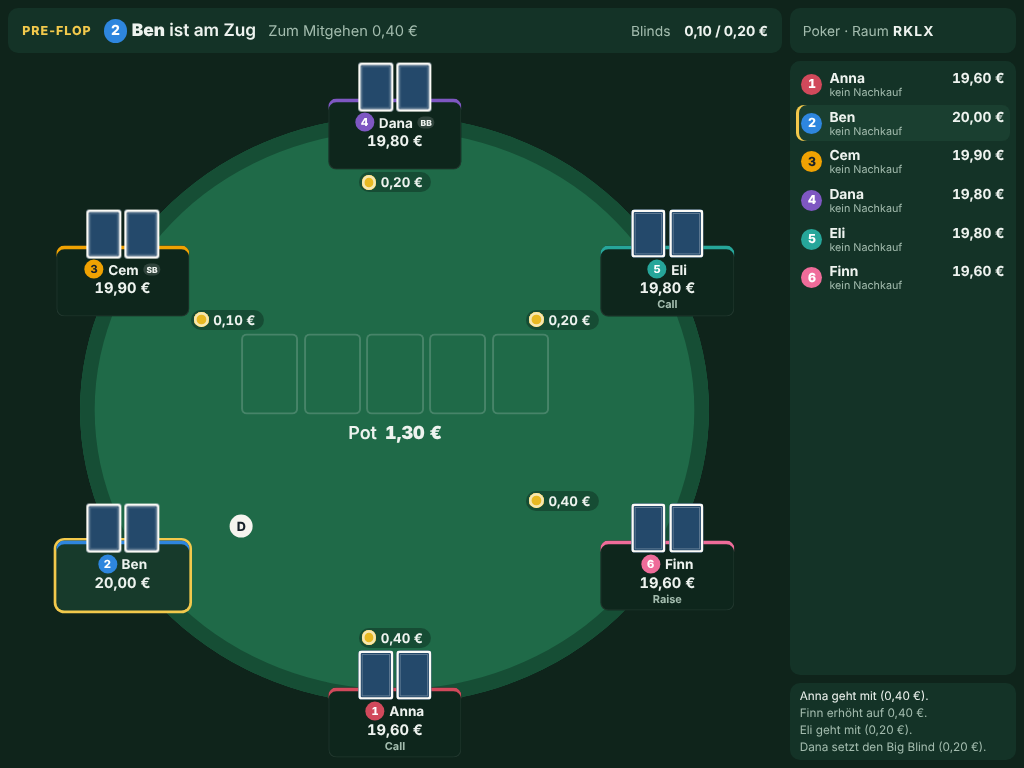
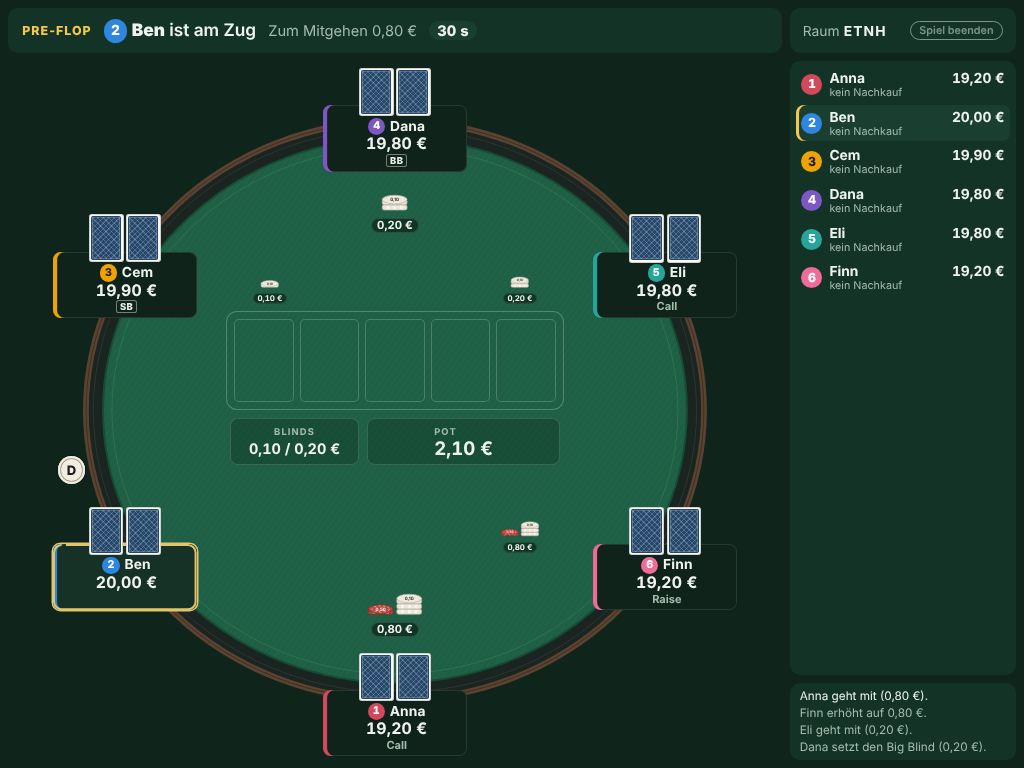
Bildschirmfotos und Doku: Poker-Grafik, Sperrzonen, Spiel beenden
docs/screenshots/: alte poker-*.png ersetzt. Fernseher in 1920x1080 und
1024x768: Pre-Flop, Flop mit Dealer-Button an der Stelle, die der Mitte am
nächsten kommt, Showdown mit markierter Hand, 12 Spieler, Poker-Endstand
nach 40 Runden mit Nachkäufen, Bestätigungsdialog „Spiel beenden“. Handy
in 390x844: Karten verdeckt und aufgedeckt, Aktionsleiste, Endstand.
Lobby mit Poker gewählt. Seitenkopf bei 4:3 ohne „Poker ·“, damit der
Knopf „Spiel beenden“ nicht umbricht.

CLAUDE.md und docs/spielcenter-plan.md: Tischgeometrie mit Sperrzonen,
neue Grafik, Spiel beenden für alle Spiele, Entscheidung 10, Testzahlen
(173 Unit-Tests, 15 Browser-Tests).

Claude-Session: https://claude.ai/code/session_013XVXff8zUDouadq4XLn7fi

diff --git a/public/board/index.html b/public/board/index.html
@@ -161,7 +161,7 @@
     </header>
     <div id="pkt-table" class="pkt-table" role="img" aria-label="Pokertisch"></div>
     <aside class="pkt-side">
-      <div class="pkt-side-head">Poker · Raum <b id="pkt-code"></b><button type="button" class="host-end" data-host="end">Spiel beenden</button></div>
+      <div class="pkt-side-head"><span class="pkt-side-game">Poker ·&nbsp;</span>Raum <b id="pkt-code"></b><button type="button" class="host-end" data-host="end">Spiel beenden</button></div>
       <ol id="pkt-list" class="pkt-list"></ol>
       <ol id="pkt-log" class="pkt-log"></ol>
     </aside>

diff --git a/public/board/poker.css b/public/board/poker.css
@@ -150,4 +150,5 @@
 @media (max-aspect-ratio: 4/3) {
   .poker { --side: clamp(190px, 22vw, 300px); font-size: clamp(11px, 1.35vw, 20px); }
   .pkt-meta span { display: none; }
+  .pkt-side-game { display: none; }
 }

diff --git a/docs/spielcenter-plan.md b/docs/spielcenter-plan.md
@@ -43,11 +43,20 @@ Ziel: Aus dem Monopoly-Abend wird ein Spielcenter mit mehreren Spielen.
   - Zugzeit: Ablauf heißt Check, wenn möglich, sonst Fold. Sie beginnt erst nach den Animationen. Ist der Spieler am Zug getrennt, ruht sie (Pause); nach 5 Minuten verlässt er den Tisch (seine Hand wird gefoldet, sein Guthaben bleibt in der Abrechnung).
   - Nachkaufen: Wer pleite ist, entscheidet zwischen zwei Runden am Handy „Nachkaufen“ (zum Startbetrag) oder „Aussetzen“ (mit Zugzeit: Ablauf heißt Aussetzen). Wer aussetzt, kann später nachkaufen. Ein Zähler je Spieler zeigt die Nachkäufe. Ohne Nachkaufen scheidet aus, wer pleite ist; das Spiel endet, wenn nur noch einer Guthaben hat (mit Nachkaufen: wenn weniger als zwei am Tisch bleiben). „Tisch verlassen“ in den Handy-Einstellungen.
   - Spielerfarben: eigene Palette mit 12 Farben, dazu immer die Sitznummer. Keine Spielfigur.
-  - Fernseher: ovaler Tisch in ruhigem Grün, Plätze gleichmäßig auf einer Ellipse (ab 9 Spielern kleinere Karten und Schrift), Name, Farbe, Sitznummer, Guthaben, Einsatz, Dealer-Button, aktiver Spieler markiert, Gefoldete abgedunkelt, All-in markiert; Gemeinschaftskarten und Pot (einschließlich der Einsätze der laufenden Setzrunde) in der Mitte, Spielerliste mit Guthaben und Nachkäufen am Rand. Einsätze und Dealer-Button werden so gesetzt, dass nichts überlappt (geprüft mit 2, 6, 8, 9 und 12 Spielern in 1920×1080, 1366×768 und 1024×768). Vier-Farben-Karten (Pik schwarz, Herz rot, Karo blau, Kreuz grün), Ränge 2–10, B, D, K, A.
+  - Fernseher: ovaler Tisch als flache Flächen (schmale Holzkante, dunkle Polsterkante, Filz mit sehr feinem Webmuster, feine Linie an der Filzkante). Plätze gleichmäßig auf einer Ellipse am Tischrand (ab 9 Spielern kleinere Plätze und Karten): Namensschild mit Name, Guthaben, Sitznummer, Farbstreifen, Plaketten SB/BB/All-in, zwei kleine Karten am Platz, Zugzeit als feiner Ring um das Schild (nur mit Zugzeit), aktiver Spieler mit feiner Linie markiert, Gefoldete abgedunkelt. Spielerliste mit Guthaben und Nachkäufen am Rand.
+  - Tischgeometrie (`public/board/poker-layout.js`, reine Rechnung für Browser und Tests): Sperrzonen in der Mitte sind Kartenring (Gemeinschaftskarten), Blinds-Feld, Pot-Feld und die Zeile für den Handnamen. Ein Löser setzt Einsätze zwischen Platz und Mitte (notfalls seitlich verschoben oder kleiner) und den Dealer-Button (Puck mit „D“) neben seinen Platz am Tischrand, nie zur Mitte hin; reicht der Platz nicht, wird alles etwas kleiner. Chips fliegen um Kartenring und Blinds-Feld herum. Geprüft im Browser (getBoundingClientRect) für 2, 3, 6, 9 und 12 Spieler in allen Phasen inklusive Chips im Flug, in 1920×1080, 1366×768 und 1024×768: 0 Überlappungen.
+  - Karten (Fernseher und Handy, `public/shared/poker-karten.*`): 5:7, Ecken mit Rang und Farbe oben links und unten rechts (gedreht), großes Farbsymbol in der Mitte, Bildkarten B, D, K rein typografisch mit feinem Rahmen, vier Farben (Pik schwarz, Herz rot, Karo blau, Kreuz grün), Rückseite mit flachem Rautengitter; kleine Karten am Platz nur mit oberer Ecke.
+  - Chips: feste Farben je Wert (0,01 / 0,05 / 0,10 / 0,50 / 1 / 5 / 25 / 100 / 500 €), Betrag gierig in Chips zerlegt, Stapel mit begrenzter Höhe, Randkerben als feine Linien, Wert auf dem obersten Chip. Einsätze und Pot als Stapel; beim Einsammeln fliegen einzelne Chips nacheinander in den Pot, der Pot wächst Spieler für Spieler; der Gewinn kommt Chip für Chip beim Gewinner an.
+  - Showdown: die fünf Gewinnkarten angehoben mit feiner Umrandung, übrige Karten treten zurück, Handname groß unter dem Pot.
   - Animationen: Die Engine sammelt Ereignisse (Runde, Blinds, Austeilen, Setzen, Pot einsammeln, Rückgabe, Flop/Turn/River, Aufdecken, Wegwerfen, Gewinn je Pot), das Spielmodul gibt ihnen Startzeit und Dauer, strikt nacheinander; daraus `animUntil`. Der Fernseher rechnet noch nicht begonnene Ereignisse aus dem Stand zurück und zeigt beim Start jedes Ereignisses die Bewegung; die Handys zeigen Neues erst danach. Nächste Runde nach einer kurzen Pause. `prefers-reduced-motion` wird beachtet. Ton über die Web Audio API (Austeilen, Chips, Aufdecken, Gewinn).
   - Handy: eigene Karten verdeckt, Antippen und Halten zeigt sie, Umschalter „Dauerhaft aufdecken“; Pot, Blinds, Dealer, Einsätze, Betrag zum Mitgehen, Liste aller Spieler. Aktionsleiste mit großen Knöpfen: Fold, Check/Call (mit Betrag), Raise mit Regler (Schritte des Small Blinds) und Eingabe auf den Cent, Schnellwahl Min, ½ Pot, Pot, All-in. Zweites Tippen für All-in und für Fold, wenn Check ginge. Vibration bei eigenem Zug und bei Entscheidungen (abschaltbar, Standard an).
   - Speicherformat: Spieltyp `poker`, Version 1, mit Kartenstapel und Handkarten (nur in der Datenbank, nie im Snapshot); Spielstand und laufende Runde überleben einen Neustart.
-  - Bildschirmfotos: `poker-lobby-*`, `poker-tv-preflop-*`, `poker-tv-showdown-*`, `poker-tv-12-spieler-*`, `poker-handy-verdeckt-390x844`, `poker-handy-aufgedeckt-390x844`, `poker-handy-aktionsleiste-390x844` in `docs/screenshots/`.
+  - Bildschirmfotos: `poker-lobby-*`, `poker-tv-preflop-*`, `poker-tv-flop-dealer-*` (Dealer-Button an der Stelle, die der Mitte am nächsten kommt), `poker-tv-showdown-*`, `poker-tv-12-spieler-*`, `poker-endstand-*`, `spiel-beenden-dialog-*`, `poker-handy-verdeckt-390x844`, `poker-handy-aufgedeckt-390x844`, `poker-handy-aktionsleiste-390x844`, `poker-handy-endstand-390x844` in `docs/screenshots/`.
+- **Spiel beenden (Host, alle Spiele):** Unauffälliger Knopf „Spiel beenden“ im Kopf jedes Spiels auf der Host-Ansicht, mit Bestätigung („Spiel wirklich beenden?“ – „Ja, beenden“ / „Abbrechen“). Der Server nimmt `board:end`, `board:lobby` und `board:close` nur von der Host-Ansicht an; Handys werden abgelehnt. Jedes Spiel hat `endByHost()` (Phase Ende, kein Sieger) und `summary()` (Endstand, nur Anzeige); der Endstand steht im Snapshot (`final`) und überlebt einen Neustart.
+  - Poker: Startguthaben, Nachkäufe, Endguthaben, Gewinn/Verlust (Endguthaben − Startguthaben − Nachkäufe, in Cent), sortiert vom größten Gewinn. Eine laufende Runde wird abgebrochen und alle Einsätze gehen zurück, damit die Summe genau null ist.
+  - Risiko: bestehendes Abschlussbild mit Statistik, dazu Gebiete und Armeen; bei vorzeitigem Ende „Spiel vom Host beendet“ ohne Sieger.
+  - Monopoly: Vermögen als Rangliste: Bargeld plus Kaufpreis der Grundstücke (mit Hypothek abzüglich Hypothekenwert) plus Baukosten der Häuser (Hotel = 5 Häuser). Ein laufendes Minispiel bricht ab, offene Einsätze gehen zurück.
+  - Danach: Handys zeigen „Das Spiel wurde beendet“ mit Endstand; der Host hat „Zurück zur Lobby“ (gleicher Raum, gleiche Spieler, neues Spiel wählbar) und „Raum schließen“ (mit Bestätigung; der Raum wird gelöscht, auch aus der Datenbank, alle Geräte bekommen Bescheid).
 - **Startseite** (`/`, `public/start/`): „Neues Spiel starten“ legt über `POST /api/rooms` einen Raum an und öffnet die Host-Lobby; „Spiel beitreten“ prüft den Code (`GET /api/rooms/:code`) und führt zu `/play`. Keine Anmeldung. Dauert eine Anfrage länger als 3 s, erscheint „Der Server startet, das dauert bis zu einer Minute.“
 - **Lobby und Beitritt** (`public/shared/lobby.css`, `lobby.js`): großer Raumcode mit QR-Code und Adresse, Spieler als Karten in ihrer Farbe („4 von 6“), Spielauswahl als drei gleichwertige Karten mit „X bis Y Spieler“, Einstellungen darunter, Start erst mit genug Spielern. Hintergrund bei Risiko die abgedunkelte Weltkarte, bei Monopoly ein flaches Feldraster, bei Poker ein flaches Rautengitter in Tischgrün. Spielfigur wählt man nur bei Monopoly, sonst vergibt der Server die erste freie. Bildschirmfotos: `startseite-*`, `lobby-*`, `handy-beitritt-*` in `docs/screenshots/`.
 - **Räume:**
@@ -61,7 +70,7 @@ Ziel: Aus dem Monopoly-Abend wird ein Spielcenter mit mehreren Spielen.
   - Vanilla-JS-Clients ohne Build-Schritt
   - Zustand im Arbeitsspeicher; mit `DATABASE_URL` zusätzlich in Postgres (Neon), siehe Betrieb
 - **Deployment:** `render.yaml` als Web Service im Free-Plan; Build mit `npm install --omit=dev`, Start mit `npm start`, Healthcheck `/healthz`.
-- **Tests:** `npm test` führt nur die Unit-Tests aus (162: Regeln von Monopoly, Risiko, Poker und Minispielen, Spiel-Schnittstelle, Spielauswahl, Neustart-Tests mit gespeicherten Räumen in Version 1 und 2, Prüfung der erzeugten Weltkarte, Animations-Ereignisse, Risiko-Anzeigedaten wie Vorauswahl, Phasentexte und Statistik samt altem Spielstand ohne Statistik, Animationsdauern, Raumlimit, Rate-Limit und Aufräumen leerer Räume, Startseite per HTTP, CORS-Freigabe von `/healthz` für die Weckseite, Wächter für die Testskripte). Poker hat 31 eigene Tests (`test/poker.test.js`, `test/poker-modul.test.js`): Handbewertung aller Kategorien mit Kickern und Gleichständen, Side-Pots mit drei und mehr Spielern und mehreren All-ins, Split mit ungeradem Cent, Mindest-Raise und zu kleines All-in, Heads-up, Blinds-Rotation, Aktionen außerhalb des Zuges, Einstellungen, Ablehnung des 13. Spielers, Austeilen mit 12 Spielern, versteckte Karten für jede Rolle auch nach Neustart aus dem Speicher, Zugzeit, Nachkaufen, Spielende und eine Zufallspartie mit festem Seed (über 100 Runden je mit 3, 6 und 12 Spielern), in der Guthaben plus Pot bis auf Nachkäufe konstant bleibt. Lokal kommen dazu `npm run test:browser` (Playwright-Durchläufe: Monopoly mit 1 Host-Ansicht und 3 Handys, Lobby, alte Einzelversion, Risiko mit 2 Handys inkl. Vorauswahl auf dem Fernseher, Poker mit 3 Handys (eine Runde, Karten nur am eigenen Handy, Gemeinschaftskarten auf dem Fernseher), Startseite mit Raum anlegen und Beitritt per Code, Weckseite; braucht `CHROMIUM_PATH`; zuletzt 9 von 9 grün mit `/opt/pw-browsers/chromium`) und `npm run test:db` (2 Datenbank-Tests, braucht `DATABASE_URL`). Fehlt die Umgebung, werden diese Tests mit Grund übersprungen. Zeitlimit 60 s pro Testdatei.
+- **Tests:** `npm test` führt nur die Unit-Tests aus (173: Regeln von Monopoly, Risiko, Poker und Minispielen, Spiel-Schnittstelle, Spielauswahl, Neustart-Tests mit gespeicherten Räumen in Version 1 und 2, Prüfung der erzeugten Weltkarte, Animations-Ereignisse, Risiko-Anzeigedaten wie Vorauswahl, Phasentexte und Statistik samt altem Spielstand ohne Statistik, Animationsdauern, Raumlimit, Rate-Limit und Aufräumen leerer Räume, Startseite per HTTP, CORS-Freigabe von `/healthz` für die Weckseite, Wächter für die Testskripte). Poker hat 31 eigene Tests (`test/poker.test.js`, `test/poker-modul.test.js`): Handbewertung aller Kategorien mit Kickern und Gleichständen, Side-Pots mit drei und mehr Spielern und mehreren All-ins, Split mit ungeradem Cent, Mindest-Raise und zu kleines All-in, Heads-up, Blinds-Rotation, Aktionen außerhalb des Zuges, Einstellungen, Ablehnung des 13. Spielers, Austeilen mit 12 Spielern, versteckte Karten für jede Rolle auch nach Neustart aus dem Speicher, Zugzeit, Nachkaufen, Spielende und eine Zufallspartie mit festem Seed (über 100 Runden je mit 3, 6 und 12 Spielern), in der Guthaben plus Pot bis auf Nachkäufe konstant bleibt. Dazu `test/poker-layout.test.js` (Tischgeometrie ohne Browser: keine Überlappung mit Sperrzonen und untereinander für 2 bis 12 Spieler, Chip-Flugbahnen) und `test/spiel-beenden.test.js` (nur der Host beendet, Endphase, Neustart, Zurück zur Lobby, Raum schließen inklusive Löschen aus dem Speicher, Poker-Endstand mit Summe null, Monopoly-Vermögen, Risiko-Gebiete). Lokal kommen dazu `npm run test:browser` (Playwright-Durchläufe: Monopoly mit 1 Host-Ansicht und 3 Handys, Lobby, alte Einzelversion, Risiko mit 2 Handys inkl. Vorauswahl auf dem Fernseher, Poker mit 3 Handys (eine Runde, Karten nur am eigenen Handy, Gemeinschaftskarten auf dem Fernseher), Überlappungsprüfung des Poker-Tisches (`poker-layout.e2e`, `poker-layout-viele.e2e`, gemeinsamer Ablauf in `test/poker-layout-messung.js`), Spiel beenden mit Bestätigung, Endstand auf den Handys, Lobby und Raum schließen, Startseite mit Raum anlegen und Beitritt per Code, Weckseite; braucht `CHROMIUM_PATH`; zuletzt 15 von 15 grün mit `/opt/pw-browsers/chromium`) und `npm run test:db` (2 Datenbank-Tests, braucht `DATABASE_URL`). Fehlt die Umgebung, werden diese Tests mit Grund übersprungen. Zeitlimit 60 s pro Testdatei.
 - **Aufräumarbeiten:** `package-lock.json` liegt im Repo. Die alte Pferderennen-Einzelversion liegt in `legacy/`.
 
 ## Entscheidungen
@@ -75,6 +84,7 @@ Ziel: Aus dem Monopoly-Abend wird ein Spielcenter mit mehreren Spielen.
 7. **Poker: Texas Hold'em als Cash-Game**, 2 bis 12 Spieler, Geld in ganzen Cent, Einstellungen und Regeln wie oben unter Poker. Keine Turniere, keine anderen Varianten.
 8. **Poker: Showdown.** Wer gewinnen kann, zeigt automatisch; wer nicht gewinnen kann, darf verdeckt wegwerfen. Bei einem All-in werden alle Hände gezeigt. Die Dead-Button-Regel gibt es nicht: Der Button rückt immer zum nächsten Spieler mit Guthaben.
 9. **Räume bis 12 Spieler.** Monopoly bleibt bei 10, Risiko bei 6. Spieler 11 und 12 haben keine Spielfigur (nur bei Monopoly nötig).
+10. **Spiel beenden darf nur die Host-Ansicht.** Host ist, wer die Host-Ansicht des Raumes geöffnet hat (wie bisher ohne Anmeldung). Ein vorzeitig beendetes Spiel hat keinen Sieger; laufende Poker-Runden und Minispiele werden abgebrochen, Einsätze gehen zurück.
 
 ## Offene Punkte
 

diff --git a/CLAUDE.md b/CLAUDE.md
@@ -19,7 +19,9 @@ Spielcenter für den Spieleabend: Ein großer Bildschirm (Tablet oder TV) zeigt 
   - `server/games/risiko/map-paths.js`: realistische Weltkarte (SVG-Pfade, Seen, Marker, Namen, Seewege), **erzeugt** von `scripts/build-map.js` aus Natural Earth; nicht von Hand ändern, sondern neu bauen. Die Host-Ansicht lädt sie als `/risiko/map-paths.js`.
   - Startseite `public/start/` (unter `/`), Lobby- und Beitritts-Gestaltung gemeinsam in `public/shared/lobby.css` / `lobby.js`; Raumgrenzen (20 gleichzeitig, 5 pro Minute und IP, leere Räume nach 30 Minuten weg) in `server/rooms.js`
   - Clients: Monopoly in `board.js` / `play.js`, Risiko in `public/board/risiko.js` (dazu `risiko-audio.js` für Töne) und `public/play/risiko.js`; gemeinsame Kartenfarben und -größen in `public/shared/risiko-farben.js`
-  - Poker-Clients: `public/board/poker.js` (Tisch, Animationen aus den Server-Ereignissen; `poker-audio.js` für Töne), `public/play/poker.js`; Spielkarten, Sitzmarken und Euro-Anzeige gemeinsam in `public/shared/poker-karten.js` / `.css`
+  - Poker-Clients: `public/board/poker.js` (Tisch, Animationen aus den Server-Ereignissen; `poker-audio.js` für Töne), `public/play/poker.js`; Spielkarten, Chipstapel, Sitzmarken und Euro-Anzeige gemeinsam in `public/shared/poker-karten.js` / `.css`
+  - `public/board/poker-layout.js`: Tischgeometrie (reine Rechnung, auch in den Unit-Tests). Kartenring, Blinds-Feld, Pot-Feld und Handname sind Sperrzonen; Plätze, Einsätze, Dealer-Button und fliegende Chips dürfen sie nie berühren. Wer am Tisch etwas ändert, lässt `test:browser` laufen (Überlappungsprüfung `poker-layout*.e2e`).
+  - Spiel beenden: Jedes Spielmodul bietet `endByHost()` und `summary()` (Endstand für `final` im Snapshot, nur Anzeige). `board:end`, `board:lobby` und `board:close` nimmt der Server nur von der Host-Ansicht an; Endstand-Darstellung gemeinsam in `public/shared/endstand.js` / `.css`.
   - Räume nehmen bis zu 12 Spieler auf (das Spielmodul begrenzt weiter: Monopoly 10, Risiko 6, Poker 12). Ein Modul kann eigene Lobby-Farben haben (`colors`); beim Spielwechsel werden die Farben übertragen.
   - Risiko-Anzeigedaten (Vorauswahl, Phasentexte, Animations-Ereignisse) entstehen im Spielmodul `server/games/risiko/index.js`; die Vorauswahl geht nur an die Host-Ansicht. Die Statistik fürs Abschlussbild zählt die Engine nur zur Anzeige mit.
   - `server/games/*.js`: Minispiele mit `wallet`-Interface
